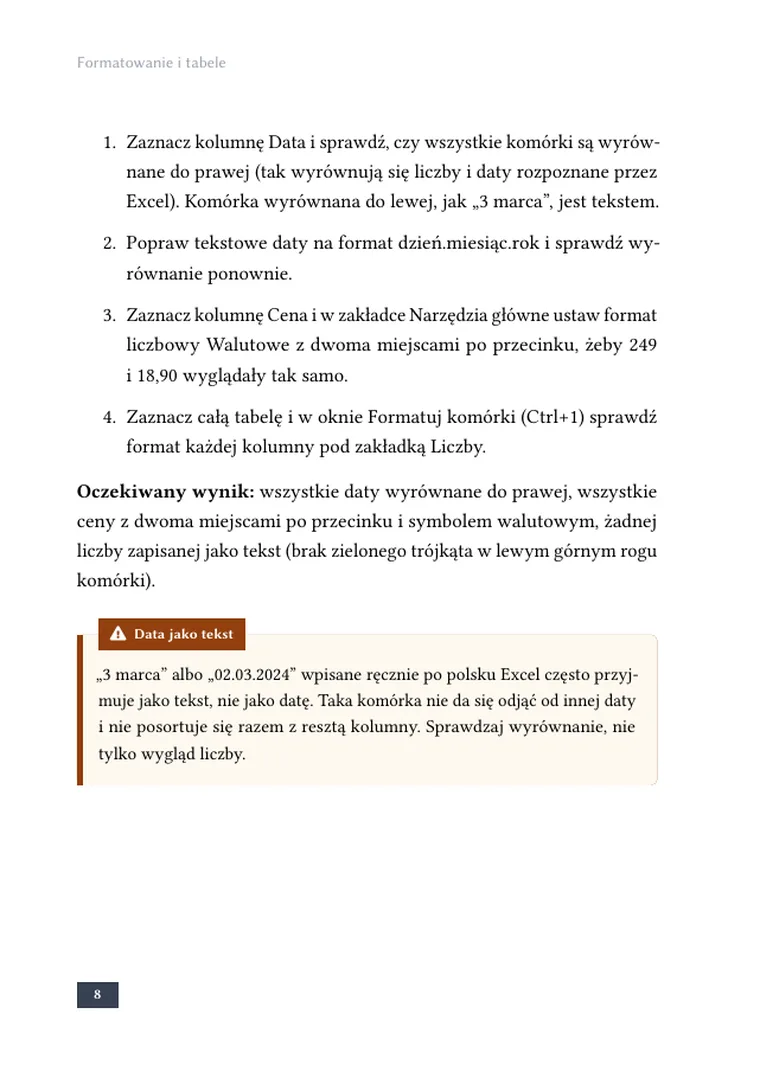
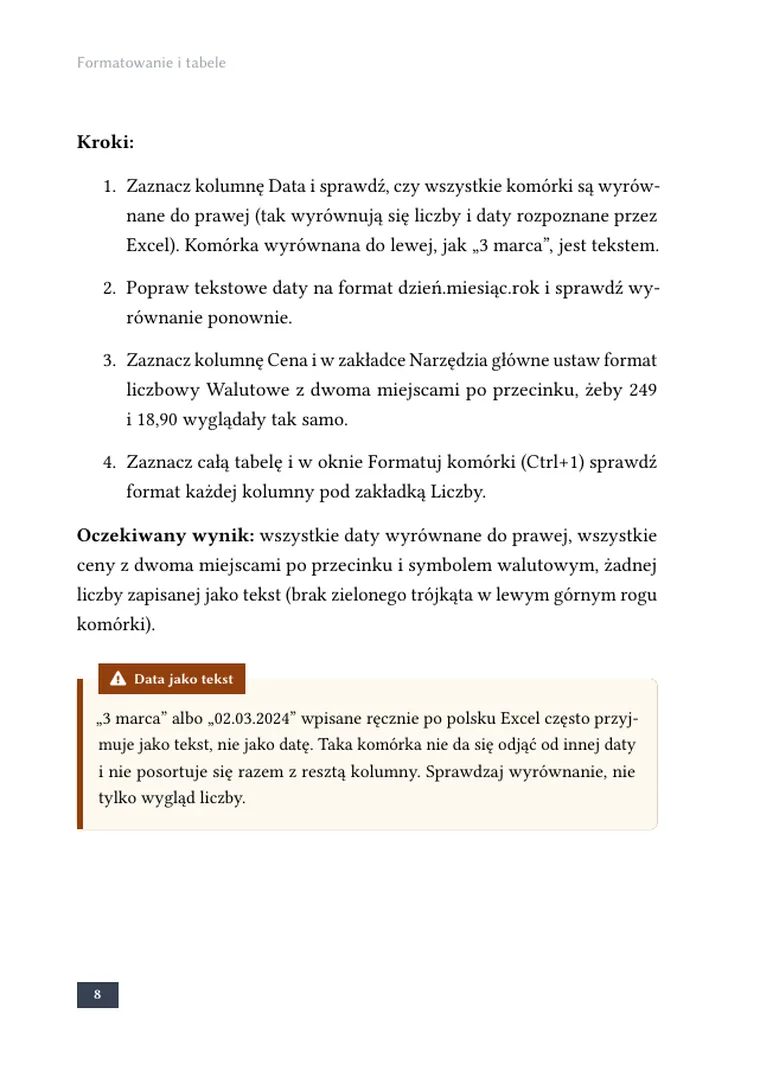
Zeszyt ćwiczeń z Excela: PDF-y bez samotnych etykiet Kroki/Steps na dole strony

Changed region(s): [[0.0908, 0.1224, 0.8776, 0.7653]]

diff --git a/site/src/data/examples.js b/site/src/data/examples.js
@@ -245,7 +245,7 @@ export const examples = [
     lang: "pl",
     category: "tech",
     style: "Minimal",
-    pages: 60,
+    pages: 61,
     desc: {
       pl: "Materiał dla kursantów: 30 ćwiczeń krok po kroku, od formatowania tabel przez JEŻELI i WYSZUKAJ.PIONOWO po tabele przestawne, z rozwiązaniami.",
       en: "Workbook for training participants: 30 step-by-step exercises, from table formatting through IF and VLOOKUP to pivot tables, with solutions (in Polish).",
@@ -257,7 +257,7 @@ export const examples = [
     lang: "en",
     category: "tech",
     style: "Minimal",
-    pages: 57,
+    pages: 58,
     desc: {
       pl: "Angielskie wydanie zeszytu ćwiczeń z Excela: 30 zadań krok po kroku dla uczestników szkolenia, z rozwiązaniami.",
       en: "Course material for trainees: 30 step-by-step exercises, from formatting tables through IF and VLOOKUP to pivot tables, with solutions.",
